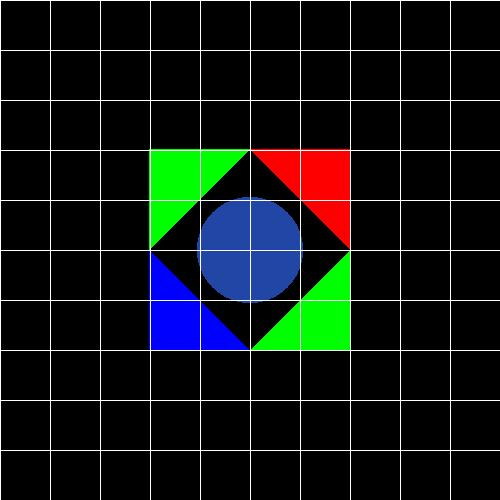
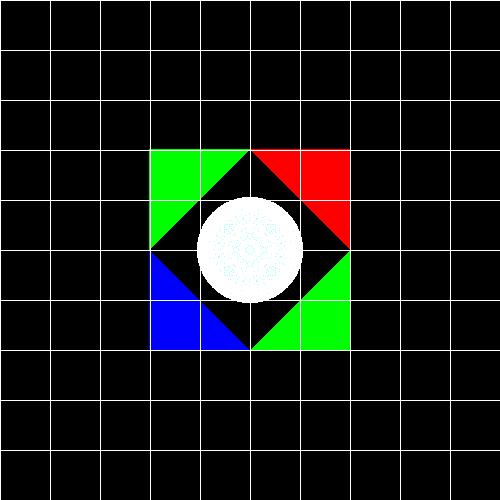
Added reflection and refraction. Problems with spheres

Changed region(s): [[0.39, 0.39, 0.63, 0.63]]

diff --git a/src/renderer/Render.java b/src/renderer/Render.java
@@ -22,17 +22,18 @@ public class Render {
 
 	/************** operations *******/
 	// calc the exact color of the point that we need
-	private Color calcColor(Geometry geo, Point3D point, ArrayList<Light> lights, int levels, double k) {
-		
-		if (levels == 0 || Coordinate.isZero(k)) return _scene.getBackground();
-		
+	private Color calcColor(Geometry geo, Point3D point, Ray inRay, int levels, double k) {
+
+		if (levels == 0 || Coordinate.isZero(k))
+			return _scene.getBackground();
+
 		if (geo == null || point == null)
 			throw new IllegalArgumentException("Geometry or Point not found");
 
 		_color = new Color(_scene.getAmbientLight().getIntensity(point).add(geo.getEmmission()));
 		Color color = new Color(_color);
 
-		Vector v = new Vector(point.subtract(_scene.getCamera().getP0())).normalize();
+		Vector v = inRay.getDirection();
 		Vector n = geo.getNormal(point);
 		int nShininess = geo.getShininess();
 		double kd = geo.getKd();
@@ -41,16 +42,63 @@ public class Render {
 			Vector l = lightSource.getL(point);
 			if (n.dotProduct(l) * n.dotProduct(v) > 0) {
 				Color lightIntensity = new Color();
-				if(!occluded(l, geo, point))
+				
+				double occ = occluded(l, geo, point);
+				if (!Coordinate.isZero(occ*k)) {
 					lightIntensity = lightSource.getIntensity(point);
 					color.add(calcDiffusive(kd, l, n, lightIntensity),
-							calcSpecular(ks, l, n, v, nShininess, lightIntensity));
+					calcSpecular(ks, l, n, v, nShininess, lightIntensity));
+				}
 			}
 		}
-		return _color;
+
+		// reflection
+		Ray reflectedRay = constructReflectedRay(n, point, inRay);
+		HashMap<Geometry, ArrayList<Point3D>> reflectedIntersectionPoints = new HashMap<Geometry, ArrayList<Point3D>>(
+				_scene.findRayIntersections(reflectedRay));
+
+		Color reflected = new Color();
+		if (reflectedIntersectionPoints.isEmpty()) {
+			reflected = _scene.getBackground();
+		} else {
+			HashMap<Geometry, Point3D> reflectedPoint = getClosestPoint(reflectedIntersectionPoints);
+			double kr = geo.getMaterial().get_Kr();
+			for (Entry<Geometry, Point3D> p : reflectedPoint.entrySet()) {
+				reflected = calcColor(p.getKey(), p.getValue(), reflectedRay, levels - 1, k * kr).scale(kr);
+			}
+		}
+
+		// refraction
+		Ray refractedRay = constructRefractedRay(point, inRay);
+		HashMap<Geometry, ArrayList<Point3D>> refractedIntersectionPoints = new HashMap<Geometry, ArrayList<Point3D>>(
+				_scene.findRayIntersections(refractedRay));
+
+		Color refracted = new Color();
+		if (refractedIntersectionPoints.isEmpty()) {
+			refracted = _scene.getBackground();
+		} else {
+			HashMap<Geometry, Point3D> refractedPoint = getClosestPoint(refractedIntersectionPoints);
+			double kt = geo.getMaterial().get_Kt();
+			for (Entry<Geometry, Point3D> p : refractedPoint.entrySet()) {
+				refracted = calcColor(p.getKey(), p.getValue(), refractedRay, levels - 1, k * kt).scale(kt);
+			}
+		}
+		color.add(reflected);
+		return color.add(refracted);
 
 	}
-	
+
+	private Ray constructReflectedRay(Vector n, Point3D point, Ray ray) {
+		Ray reflected = new Ray(ray.getDirection().add(n.scalarMuliplication(-2 * ray.getDirection().dotProduct(n))),
+				point);
+		return reflected;
+	}
+
+	private Ray constructRefractedRay(Point3D point, Ray ray) {
+		Ray refracted = new Ray(ray.getDirection(), point);
+		return refracted;
+	}
+
 	private Color calcSpecular(double ks, Vector l, Vector n, Vector v, int nShininess, Color lightIntensity) {
 		Vector r = new Vector(l.add(n.scalarMuliplication(-2 * l.dotProduct(n))).normalize());
 		double vr = v.dotProduct(r);
@@ -66,18 +114,25 @@ public class Render {
 	public ImageWriter getImageWriter() {
 		return _imageWriter;
 	}
-	
-	private boolean occluded(Vector l, Geometry geo, Point3D point) {
+
+	private double occluded(Vector l, Geometry geo, Point3D point) {
+
 		Vector lightDirection = l.scalarMuliplication(-1); // from point to light source
 		Vector normal = geo.getNormal(point).scalarMuliplication(2);
-		Vector epsVector = normal.scalarMuliplication((normal.dotProduct(lightDirection) > 0) ? 2 : -2);
+		Vector epsVector = normal.scalarMuliplication((normal.dotProduct(lightDirection) > 0) ? 1 / 10000 : -1 / 10000);
+
 		Point3D geometryPoint = point.add(epsVector);
+
 		Ray lightRay = new Ray(lightDirection, geometryPoint);
-		Map<Geometry, ArrayList<Point3D>> intersectionPoints =
-		_scene.getGeometries().findIntersections(lightRay);
-		return !intersectionPoints.isEmpty();
+
+		double occlusionK = 0;
+		Map<Geometry, ArrayList<Point3D>> intersectionPoints = _scene.getGeometries().findIntersections(lightRay);
+		for (Map.Entry<Geometry, ArrayList<Point3D>> entry : intersectionPoints.entrySet()) {
+			occlusionK *= entry.getKey().getMaterial().get_Kt();
 		}
 
+		return occlusionK;
+	}
 
 	/**
 	 * Renders every the image
@@ -110,7 +165,9 @@ public class Render {
 						p = ed.getValue();
 					}
 
-					_imageWriter.writePixel(i, j, calcColor(geo, p, _scene.getLights()).getColor());
+					_imageWriter.writePixel(i, j,
+							calcColor(geo, p, new Ray(new Vector(p.subtract(_scene.getCamera().getP0())).normalize(),
+									_scene.getCamera().getP0()), 5, 1.0).getColor());
 				}
 			}
 		}

diff --git a/src/unittests/PlaneTest.java b/src/unittests/PlaneTest.java
@@ -31,10 +31,10 @@ public class PlaneTest {
 				new Vector (0.0, 0.0, -1.0));
 		
 		 //plane orthogonal to the view plane
-		Plane plane = new Plane(new Point3D(0.0, 0.0, -3.0), new Vector(0.0, 0.0, -1.0), new Color(), new Material(1,1,1));
+		Plane plane = new Plane(new Point3D(0.0, 0.0, -3.0), new Vector(0.0, 0.0, -1.0), new Color(), new Material(1,1,1,1,1));
 		
 		//45 degrees to the view plane
-		Plane plane2 = new Plane(new Point3D(0.0, 0.0, -3.0), new Vector(0.0, 0.25, -1.0), new Color(), new Material(1,1,1));
+		Plane plane2 = new Plane(new Point3D(0.0, 0.0, -3.0), new Vector(0.0, 0.25, -1.0), new Color(), new Material(1,1,1,1,1));
 		
 		ArrayList<Point3D> intersectionPointsPlane = new ArrayList<Point3D>();
 		ArrayList<Point3D> intersectionPointsPlane2 = new ArrayList<Point3D>();
@@ -76,9 +76,9 @@ public class PlaneTest {
 	@Test
 	public void testEqualsObject() {
 		
-		Plane p1 = new Plane(new Point3D(0.0, 0.0, -3.0), new Vector(0.0, 0.25, -1.0), new Color(), new Material(1,1,1));
-		Plane p2 = new Plane(new Point3D(0.0,0.0,0.0000001),new Vector(0.0,0.25,-0.999999999999), new Color(), new Material(1,1,1));
-		Plane p3 = new Plane(new Point3D(1.0, 3.0, -3.0), new Vector(0.0, 0.25, -1.0), new Color(), new Material(1,1,1));
+		Plane p1 = new Plane(new Point3D(0.0, 0.0, -3.0), new Vector(0.0, 0.25, -1.0), new Color(), new Material(1,1,1,1,1));
+		Plane p2 = new Plane(new Point3D(0.0,0.0,0.0000001),new Vector(0.0,0.25,-0.999999999999), new Color(), new Material(1,1,1,1,1));
+		Plane p3 = new Plane(new Point3D(1.0, 3.0, -3.0), new Vector(0.0, 0.25, -1.0), new Color(), new Material(1,1,1,1,1));
 		
 		assertTrue(!p1.equals(p2));
 		assertTrue(!p1.equals(p3));

diff --git a/src/unittests/RenderTest.java b/src/unittests/RenderTest.java
@@ -25,19 +25,19 @@ public class RenderTest {
 		scene.setLights(lights);
 		lights.add(new SpotLight(new Color(255, 255, 255), 1.0, 1.0, 1.0, new Point3D(0, 0, 2), new Vector(0, 0, -1)));
 
-		geometries.add(new Sphere(new Point3D(0, 0, 150), 50.0, new Color(34, 70, 166), new Material(1, 1, 1)));
+		geometries.add(new Sphere(new Point3D(0, 0, 150), 50.0, new Color(34, 70, 166), new Material(1,1,1,1,1)));
 
 		geometries.add(new Triangle(new Point3D(100, 0, 149), new Point3D(0, 100, 149), new Point3D(100, 100, 149),
-				new Color(0, 255, 0), new Material(1, 1, 1)));
+				new Color(0, 255, 0), new Material(1,1,1,1,1)));
 
 		geometries.add(new Triangle(new Point3D(100, 0, 149), new Point3D(0, -100, 149), new Point3D(100, -100, 149),
-				new Color(0, 0, 255), new Material(1, 1, 1)));
+				new Color(0, 0, 255), new Material(1,1,1,1,1)));
 
 		geometries.add(new Triangle(new Point3D(-100, 0, 149), new Point3D(0, 100, 149), new Point3D(-100, 100, 149),
-				new Color(255, 0, 0), new Material(1, 1, 1)));
+				new Color(255, 0, 0), new Material(1,1,1,1,1)));
 
 		geometries.add(new Triangle(new Point3D(-100, 0, 149), new Point3D(0, -100, 149), new Point3D(-100, -100, 149),
-				new Color(0, 255, 0), new Material(1, 1, 1)));
+				new Color(0, 255, 0), new Material(1,1,1,1,1)));
 
 		ImageWriter imageWriter = new ImageWriter("test0", 500, 500, 500, 500);
 		Render render = new Render(imageWriter, scene);

diff --git a/src/primitives/Material.java b/src/primitives/Material.java
@@ -6,15 +6,18 @@ public class Material {
 	protected int _nShininess;
 	protected double _Kr;
 	protected double _Kt;
-	
+
 	public Material(double kd, double ks, int nShininess, double kr, double kt) {
 		_Kd = kd;
 		_Ks = ks;
 		_nShininess = nShininess;
-		_Kr = kr;
-		_Kt = kt;
+
+		_Kr = kr > 1 ? 1 : (kt < 0 ? -1 : kt);
+		_Kt = kt > 1 ? 1 : (kt < 0 ? -1 : kt);
+		if (_Kr == -1 || _Kt == -1)
+			throw new ArgumentException("Kt and Kr values are incorrect");
 	}
-	
+
 	public Material(Material other) {
 		_Kd = other.getKd();
 		_Ks = other.getKs();
@@ -34,12 +37,15 @@ public class Material {
 	public double getKd() {
 		return _Kd;
 	}
+
 	public Material getMaterial() {
 		return this;
 	}
+
 	public double get_Kr() {
 		return _Kr;
 	}
+
 	public double get_Kt() {
 		return _Kt;
 	}

diff --git a/src/unittests/TriangleTest.java b/src/unittests/TriangleTest.java
@@ -25,10 +25,10 @@ public class TriangleTest {
 		Camera camera = new Camera(new Point3D(0.0, 0.0, 0.0), new Vector(0.0, 1.0, 0.0), new Vector(0.0, 0.0, -1.0));
 
 		Triangle triangle = new Triangle(new Point3D(0, 1, -2), new Point3D(1, -1, -2), new Point3D(-1, -1, -2),
-				new Color(), new Material(1, 1, 1));
+				new Color(), new Material(1,1,1,1,1));
 
 		Triangle triangle2 = new Triangle(new Point3D(0, 10, -2), new Point3D(1, -1, -2), new Point3D(-1, -1, -2),
-				new Color(), new Material(1, 1, 1));
+				new Color(), new Material(1,1,1,1,1));
 
 		ArrayList<Point3D> intersectionPointsTriangle = new ArrayList<Point3D>();
 		ArrayList<Point3D> intersectionPointsTriangle2 = new ArrayList<Point3D>();

diff --git a/src/unittests/SphereTest.java b/src/unittests/SphereTest.java
@@ -30,8 +30,8 @@ public class SphereTest {
 				new Vector (0.0, 1.0, 0.0),
 				new Vector (0.0, 0.0, -1.0));
 		
-		Sphere sphere = new Sphere(new Point3D(0.0, 0.0, -3.0), 1, new Color(), new Material(1,1,1));
-		Sphere sphere2 = new Sphere(new Point3D(0.0, 0.0, -3.0), 10, new Color(), new Material(1,1,1));
+		Sphere sphere = new Sphere(new Point3D(0.0, 0.0, -3.0), 1, new Color(), new Material(1,1,1,1,1));
+		Sphere sphere2 = new Sphere(new Point3D(0.0, 0.0, -3.0), 10, new Color(), new Material(1,1,1,1,1));
 	
 		//Only the center ray intersect the sphere in two locations
 		HashMap<Geometry,ArrayList<Point3D>> intersectionPointsSphere = new HashMap<Geometry,ArrayList<Point3D>>();

diff --git a/src/unittests/RenderTestAdditionalLighting.java b/src/unittests/RenderTestAdditionalLighting.java
@@ -35,7 +35,7 @@ public class RenderTestAdditionalLighting {
 		scene.setAmbientLight(new AmbientLight(new Color(30, 30, 30), 1));
 		scene.addLights(new SpotLight(new Color(100, 100, 255), 1.0, 0.0, 1.7, new Point3D(-3, -2, -2),
 				new Vector(new Point3D(0, 0, -10).subtract(new Point3D(-3, -2, -2)))));
-		scene.addGeometry(new Sphere(new Point3D(0, 0, -10), 6, new Color(0, 0, 100), new Material(1, 1, 1)));
+		scene.addGeometry(new Sphere(new Point3D(0, 0, -10), 6, new Color(0, 0, 100), new Material(1,1,1,1,1)));
 
 		Render r = new Render(imageWriter, scene);
 		r.renderImage();

diff --git a/src/scene/Scene.java b/src/scene/Scene.java
@@ -3,6 +3,7 @@ package scene;
 import geometries.*;
 
 import java.util.ArrayList;
+import java.util.HashMap;
 
 import elements.*;
 
@@ -149,5 +150,11 @@ public class Scene {
 	 */
 	public void setLights(ArrayList<Light> lights) {
 		_lights = lights;
+	}
+	
+	
+public HashMap<Geometry, ArrayList<Point3D>> findRayIntersections(Ray ray) {
+		
+		return _objects.findIntersections(ray);
 	}
 }
